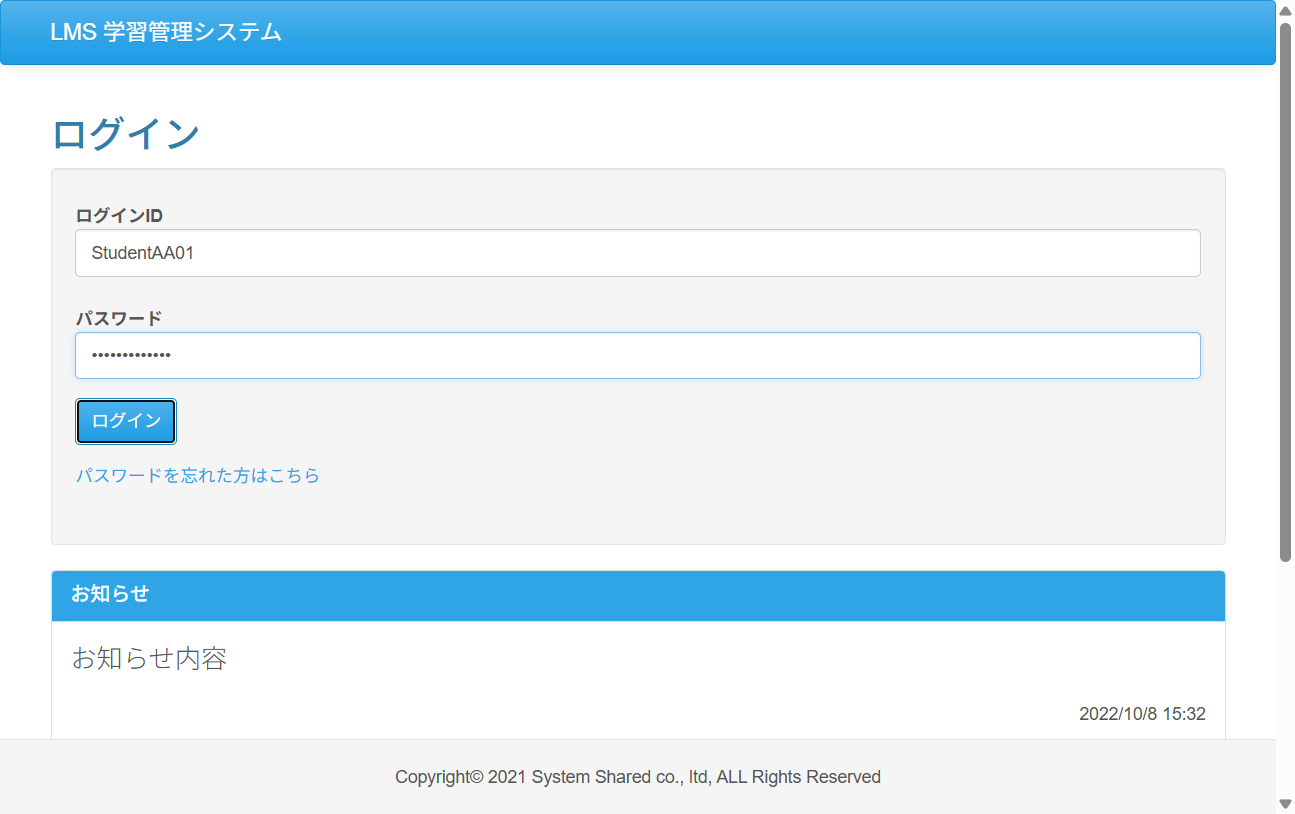
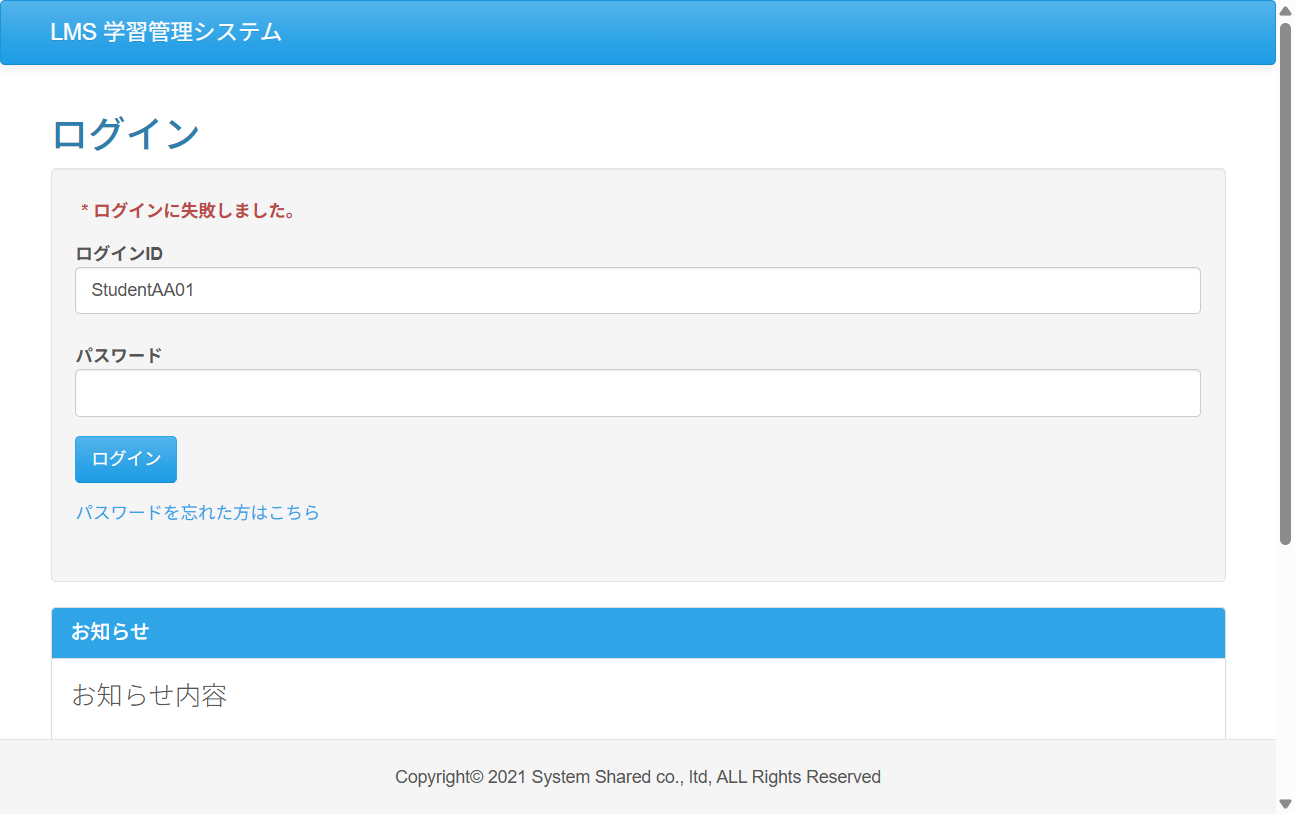
add:case01～04までassertでタイトルでの自動合否機能を追加 fix:それに伴うエビデンス画像の修正

diff --git a/test_code_creation_name/src/test/java/jp/co/sss/lms/ct/f02_faq/Case05.java b/test_code_creation_name/src/test/java/jp/co/sss/lms/ct/f02_faq/Case05.java
@@ -2,24 +2,31 @@ package jp.co.sss.lms.ct.f02_faq;
 
 import static jp.co.sss.lms.ct.util.WebDriverUtils.*;
 
+import java.io.File;
+import java.nio.file.Files;
+import java.nio.file.Path;
 import java.util.Set;
 
 import org.junit.jupiter.api.AfterAll;
+import org.junit.jupiter.api.AfterEach;
 import org.junit.jupiter.api.BeforeAll;
 import org.junit.jupiter.api.DisplayName;
 import org.junit.jupiter.api.MethodOrderer.OrderAnnotation;
 import org.junit.jupiter.api.Order;
 import org.junit.jupiter.api.Test;
+import org.junit.jupiter.api.TestInfo;
 import org.junit.jupiter.api.TestMethodOrder;
 import org.openqa.selenium.By;
+import org.openqa.selenium.JavascriptExecutor;
 import org.openqa.selenium.Keys;
+import org.openqa.selenium.OutputType;
+import org.openqa.selenium.TakesScreenshot;
 import org.openqa.selenium.WebElement;
 import org.openqa.selenium.chrome.ChromeDriver;
 
 /**
  * 結合テスト よくある質問機能
  * ケース05
- * @author holy
  */
 @TestMethodOrder(OrderAnnotation.class)
 @DisplayName("ケース05 キーワード検索 正常系")
@@ -40,11 +47,29 @@ public class Case05 {
 		closeDriver();
 	}
 
+	/**
+	 * 各テスト終了後にスクリーンショットを保存
+	 */
+	@AfterEach
+	void takeScreenshot(TestInfo testInfo) throws Exception {
+		// 画面倍率の変更(80%)
+		JavascriptExecutor js = (JavascriptExecutor) driver;
+		js.executeScript("document.body.style.zoom='80%'");
+		//スクショを取る処理
+		Thread.sleep(2000);
+		File screenshot = ((TakesScreenshot) driver).getScreenshotAs(OutputType.FILE);
+		String fileName = "evidence/case05/" + testInfo.getTestMethod().get().getName() + ".png";
+		Path targetPath = new File(fileName).toPath();
+		Files.createDirectories(targetPath.getParent());
+		Files.copy(screenshot.toPath(), targetPath);
+		//画面倍率を元に戻す。
+		js.executeScript("document.body.style.zoom='100%'");
+	}
+
 	@Test
 	@Order(1)
 	@DisplayName("テスト01 トップページURLでアクセス")
 	void test01() {
-		// TODO ここに追加
 		driver.get("http://localhost:8080/lms/");
 	}
 
@@ -52,64 +77,54 @@ public class Case05 {
 	@Order(2)
 	@DisplayName("テスト02 初回ログイン済みの受講生ユーザーでログイン")
 	void test02() {
-		// TODO ここに追加
 		driver.get("http://localhost:8080/lms/");
-
 		driver.findElement(By.id("loginId")).sendKeys("StudentAA01");
+		driver.findElement(By.id("password")).sendKeys("StudentAA01a");
+		driver.findElement(By.cssSelector("input[type='submit']")).click();
 	}
 
 	@Test
 	@Order(3)
 	@DisplayName("テスト03 上部メニューの「ヘルプ」リンクからヘルプ画面に遷移")
 	void test03() {
-		// TODO ここに追加
 		driver.get("http://localhost:8080/lms/");
-
 		driver.findElement(By.id("loginId")).sendKeys("StudentAA01");
-
-		// パスワード入力
 		driver.findElement(By.id("password")).sendKeys("StudentAA01a");
-
-		// ログインボタンをクリック
 		driver.findElement(By.cssSelector("input[type='submit']")).click();
+		driver.findElement(By.linkText("機能")).click();
+		driver.findElement(By.linkText("ヘルプ")).click();
 	}
 
 	@Test
 	@Order(4)
 	@DisplayName("テスト04 「よくある質問」リンクからよくある質問画面を別タブに開く")
 	void test04() {
-		// TODO ここに追加
 		driver.get("http://localhost:8080/lms/");
-
 		driver.findElement(By.id("loginId")).sendKeys("StudentAA01");
-
-		// パスワード入力
 		driver.findElement(By.id("password")).sendKeys("StudentAA01a");
-
-		// ログインボタンをクリック
 		driver.findElement(By.cssSelector("input[type='submit']")).click();
 
 		driver.findElement(By.linkText("機能")).click();
 		driver.findElement(By.linkText("ヘルプ")).click();
 		WebElement faqLink = driver.findElement(By.linkText("よくある質問"));
 		faqLink.sendKeys(Keys.chord(Keys.CONTROL, Keys.RETURN));
+		Set<String> handles = driver.getWindowHandles();
+		for (String handle : handles) {
+			if (!handle.equals(originalHandle)) {
+				driver.switchTo().window(handle); // 新しいタブに切り替え
+				break;
+			}
+		}
 	}
 
 	@Test
 	@Order(5)
 	@DisplayName("テスト05 キーワード検索で該当キーワードを含む検索結果だけ表示")
 	void test05() {
-		// TODO ここに追加
 		String originalHandle = driver.getWindowHandle();
-
 		driver.get("http://localhost:8080/lms/");
-
 		driver.findElement(By.id("loginId")).sendKeys("StudentAA01");
-
-		// パスワード入力
 		driver.findElement(By.id("password")).sendKeys("StudentAA01a");
-
-		// ログインボタンをクリック
 		driver.findElement(By.cssSelector("input[type='submit']")).click();
 
 		driver.findElement(By.linkText("機能")).click();
@@ -124,10 +139,8 @@ public class Case05 {
 				break;
 			}
 		}
-
 		WebElement keywordInput = driver.findElement(By.id("form"));
 		keywordInput.sendKeys("あ");
-
 		driver.findElement(By.cssSelector("input[type='submit'][value='検索']")).click();
 	}
 
@@ -135,16 +148,9 @@ public class Case05 {
 	@Order(6)
 	@DisplayName("テスト06 「クリア」ボタン押下で入力したキーワードを消去")
 	void test06() {
-
-		// TODO ここに追加
 		driver.get("http://localhost:8080/lms/faq");
-
-		// 検索キーワード入力
 		WebElement keywordInput = driver.findElement(By.id("form"));
 		keywordInput.sendKeys("テスト");
-
-		// 「クリア」ボタン押下
 		driver.findElement(By.cssSelector("input[type='button'][value='クリア']")).click();
 	}
-
 }

diff --git a/test_code_creation_name/src/test/java/jp/co/sss/lms/ct/f02_faq/Case04.java b/test_code_creation_name/src/test/java/jp/co/sss/lms/ct/f02_faq/Case04.java
@@ -1,6 +1,7 @@
 package jp.co.sss.lms.ct.f02_faq;
 
 import static jp.co.sss.lms.ct.util.WebDriverUtils.*;
+import static org.junit.jupiter.api.Assertions.*;
 
 import java.io.File;
 import java.nio.file.Files;
@@ -53,6 +54,7 @@ public class Case04 {
 		driver.get("http://localhost:8080/lms/");
 		// --- スクショ処理 ---
 		Thread.sleep(2000); // ページロード待ち(任意)
+		assertEquals("ログイン | LMS", driver.getTitle());
 		File screenshot = ((TakesScreenshot) driver).getScreenshotAs(OutputType.FILE);
 
 		// 保存先パス
@@ -77,6 +79,7 @@ public class Case04 {
 
 		// --- スクショ処理 ---
 		Thread.sleep(2000); // ページロード待ち(任意)
+		assertEquals("コース詳細 | LMS", driver.getTitle());
 		File screenshot = ((TakesScreenshot) driver).getScreenshotAs(OutputType.FILE);
 
 		// 保存先パス
@@ -91,7 +94,6 @@ public class Case04 {
 	void test03() throws Exception {
 		// TODO ここに追加
 		driver.get("http://localhost:8080/lms/");
-
 		driver.findElement(By.id("loginId")).sendKeys("StudentAA01");
 
 		// パスワード入力
@@ -105,6 +107,7 @@ public class Case04 {
 
 		// --- スクショ処理 ---
 		Thread.sleep(2000); // ページロード待ち(任意)
+		assertEquals("ヘルプ | LMS", driver.getTitle());
 		File screenshot = ((TakesScreenshot) driver).getScreenshotAs(OutputType.FILE);
 
 		// 保存先パス
@@ -142,6 +145,7 @@ public class Case04 {
 		}
 		// --- スクショ処理 ---
 		Thread.sleep(2000); // ページロード待ち(任意)
+		assertEquals("よくある質問 | LMS", driver.getTitle());
 		File screenshot = ((TakesScreenshot) driver).getScreenshotAs(OutputType.FILE);
 
 		// 保存先パス

diff --git a/test_code_creation_name/src/test/java/jp/co/sss/lms/ct/f01_login1/Case02.java b/test_code_creation_name/src/test/java/jp/co/sss/lms/ct/f01_login1/Case02.java
@@ -1,6 +1,7 @@
 package jp.co.sss.lms.ct.f01_login1;
 
 import static jp.co.sss.lms.ct.util.WebDriverUtils.*;
+import static org.junit.jupiter.api.Assertions.*;
 
 import java.io.File;
 import java.nio.file.Files;
@@ -47,6 +48,7 @@ public class Case02 {
 		// TODO ここに追加
 
 		driver.get("http://localhost:8080/lms/");
+		assertEquals("ログイン | LMS", driver.getTitle());
 
 		// --- スクショ処理 ---
 		Thread.sleep(2000);
@@ -65,6 +67,7 @@ public class Case02 {
 		// TODO ここに追加
 		// ログインID入力
 		driver.get("http://localhost:8080/lms/");
+		assertEquals("ログイン | LMS", driver.getTitle());
 
 		driver.findElement(By.id("loginId")).sendKeys("korehatestdesu11");
 
@@ -92,6 +95,7 @@ public class Case02 {
 		// TODO ここに追加
 		// ログインID入力
 		driver.get("http://localhost:8080/lms/");
+		assertEquals("ログイン | LMS", driver.getTitle());
 
 		driver.findElement(By.id("loginId")).sendKeys("");
 
@@ -118,6 +122,7 @@ public class Case02 {
 		// TODO ここに追加
 		// ログインID入力
 		driver.get("http://localhost:8080/lms/");
+		assertEquals("ログイン | LMS", driver.getTitle());
 
 		driver.findElement(By.id("loginId")).sendKeys("StudentAA01");
 

diff --git a/test_code_creation_name/src/test/java/jp/co/sss/lms/ct/f01_login1/Case03.java b/test_code_creation_name/src/test/java/jp/co/sss/lms/ct/f01_login1/Case03.java
@@ -1,6 +1,7 @@
 package jp.co.sss.lms.ct.f01_login1;
 
 import static jp.co.sss.lms.ct.util.WebDriverUtils.*;
+import static org.junit.jupiter.api.Assertions.*;
 
 import java.io.File;
 import java.nio.file.Files;
@@ -46,6 +47,7 @@ public class Case03 {
 	void test01() throws Exception {
 		// TODO ここに追加
 		driver.get("http://localhost:8080/lms/");
+		assertEquals("ログイン | LMS", driver.getTitle());
 
 		// --- スクショ処理 ---
 		Thread.sleep(2000); // ページロード待ち(任意)
@@ -63,6 +65,7 @@ public class Case03 {
 	void test02() throws Exception {
 		// TODO ここに追加
 		driver.get("http://localhost:8080/lms/");
+		assertEquals("ログイン | LMS", driver.getTitle());
 
 		driver.findElement(By.id("loginId")).sendKeys("StudentAA01");
 
@@ -73,6 +76,7 @@ public class Case03 {
 		driver.findElement(By.cssSelector("input[type='submit']")).click();
 		// --- スクショ処理 ---
 		Thread.sleep(2000); // ページロード待ち(任意)
+		assertEquals("コース詳細 | LMS", driver.getTitle());
 		File screenshot = ((TakesScreenshot) driver).getScreenshotAs(OutputType.FILE);
 
 		// 保存先パス

diff --git a/test_code_creation_name/src/test/java/jp/co/sss/lms/ct/f01_login1/Case01.java b/test_code_creation_name/src/test/java/jp/co/sss/lms/ct/f01_login1/Case01.java
@@ -1,6 +1,7 @@
 package jp.co.sss.lms.ct.f01_login1;
 
 import static jp.co.sss.lms.ct.util.WebDriverUtils.*;
+import static org.junit.jupiter.api.Assertions.*;
 
 import java.io.File;
 import java.nio.file.Files;
@@ -45,9 +46,8 @@ public class Case01 {
 	@DisplayName("テスト01 トップページURLでアクセス")
 	void test01() throws Exception {
 
-		ChromeDriver driver = new ChromeDriver();
 		driver.get("http://localhost:8080/lms/");
-
+		assertEquals("ログイン | LMS", driver.getTitle());
 		// --- スクショ処理 ---
 		Thread.sleep(2000); // ページロード待ち(任意)
 		File screenshot = ((TakesScreenshot) driver).getScreenshotAs(OutputType.FILE);
